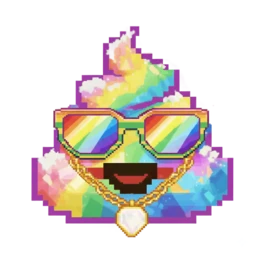
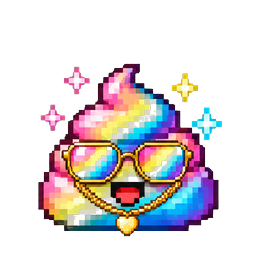
feat(assets): 똥 스프라이트 통일 + 판정 몸통 기준
- 똥 14종 새 그림 (builder poops/, 256x256, 전 종 몸통 상자 동일) — 같은 파일명·텍스처 키
- 충돌 판정: 캔버스 가운데 125 정사각 → 몸통 상자(POOP_BODY 38,62–218,230) 가운데에
  폭 hitbox(그대로 125)·높이 몸통 비율(≈117). 위로 나간 장식(모자·뿔·반짝이)은 판정 밖
  (PoolablePoopBase.fitBodyToPoop — 일반·금·다이아·무지개·토파즈 공통). 표시 크기는 그대로
- 안 쓰는 gold_poop3.webp 삭제

Claude-Session: https://claude.ai/code/session_01FbqhtZfvoqYCzNPgqVdggz

diff --git a/src/objects/PoolablePoopBase.ts b/src/objects/PoolablePoopBase.ts
@@ -1,5 +1,5 @@
 import Phaser from 'phaser';
-import { POOP_CONFIG } from '../config/poop';
+import { POOP_BODY, POOP_CONFIG } from '../config/poop';
 import { playFx } from '../utils/vfx';
 
 /**
@@ -11,6 +11,24 @@ import { playFx } from '../utils/vfx';
  * - recycle(): 화면 안에서 사라지면 = 파괴 → 타격 이펙트를 재생한다
  */
 export default class PoolablePoopBase extends Phaser.Physics.Arcade.Sprite {
+  /**
+   * 충돌 판정을 **몸통 기준**으로 — 폭 hitboxW(텍스처 px), 높이는 몸통 상자 비율, 자리는 몸통 가운데.
+   * 캔버스 가운데가 아니라 몸통 가운데에 두므로 위로 나간 장식(모자·뿔·반짝이)은 판정에 안 들어간다.
+   * 크기·오프셋은 텍스처 px 이라 표시 크기(setDisplaySize)를 바꿔도 같은 비율로 따라간다
+   */
+  protected fitBodyToPoop(hitboxW: number): void {
+    const body = this.body as Phaser.Physics.Arcade.Body | null;
+    if (!body) return;
+    const bw = POOP_BODY.right - POOP_BODY.left;
+    const bh = POOP_BODY.bottom - POOP_BODY.top;
+    const w = hitboxW;
+    const h = (bh * hitboxW) / bw;
+    const cx = (POOP_BODY.left + POOP_BODY.right) / 2;
+    const cy = (POOP_BODY.top + POOP_BODY.bottom) / 2;
+    body.setSize(w, h, false);
+    body.setOffset(cx - w / 2, cy - h / 2);
+  }
+
   reinit(x: number, y: number) {
     this.setActive(true).setVisible(true);
     const body = this.body as Phaser.Physics.Arcade.Body;

diff --git a/src/config/poop.ts b/src/config/poop.ts
@@ -26,7 +26,8 @@ export interface PoopConfig {
       /** EXTREME 난이도 크기 */
       extreme: number;
     };
-    /** 히트박스 크기 */
+    /** 히트박스 **폭** (텍스처 px) — 몸통 상자 비율로 높이를 정하고 몸통 가운데에 둔다 (PoolablePoopBase.fitBodyToPoop).
+     *  몸통 폭(180)과 같게 하면 몸통 전체가 판정이다 */
     hitbox: {
       /** 기본 히트박스 */
       normal: number;
@@ -99,6 +100,13 @@ export interface PoopConfig {
  * // 다이아똥: 40x40px, 히트박스 450x450, 일반보다 10 느림
  * // 토파즈똥: 40x40px, 히트박스 450x450, 일반보다 20 빠름 (speedReduction: -20)
  */
+/**
+ * 똥 그림의 **몸통 상자** — 텍스처(256x256 캔버스) 픽셀. 14종 전부 같다 (builder poops/body.json).
+ * 장식(안경·모자·뿔·수염·리본·반짝이)은 이 상자 밖으로 나간다 — 충돌 판정은 이 상자만 기준으로 한다.
+ * 그림을 바꾸면 body.json 의 body 값을 여기에 옮긴다
+ */
+export const POOP_BODY = { left: 38, top: 62, right: 218, bottom: 230 } as const;
+
 export const POOP_CONFIG: PoopConfig = {
   normal: {
     baseSpeed: 200,

diff --git a/src/objects/Poop.ts b/src/objects/Poop.ts
@@ -34,7 +34,7 @@ export default class Poop extends PoolablePoopBase {
 
     const body = this.body as Phaser.Physics.Arcade.Body;
     if (body) {
-      body.setSize(initHitbox, initHitbox);
+      this.fitBodyToPoop(initHitbox);
       this._hitboxSize = initHitbox;
       body.setCollideWorldBounds(false);
     }
@@ -71,7 +71,7 @@ export default class Poop extends PoolablePoopBase {
     if (body) {
       body.reset(x, y); // position + velocity 초기화 (내부에서 setPosition 호출)
       if (hitboxSize !== this._hitboxSize) {
-        body.setSize(hitboxSize, hitboxSize);
+        this.fitBodyToPoop(hitboxSize);
         this._hitboxSize = hitboxSize;
       }
       body.setEnable(true);

diff --git a/src/objects/DiamondPoop.ts b/src/objects/DiamondPoop.ts
@@ -15,7 +15,7 @@ export default class DiamondPoop extends PoolablePoopBase {
 
     const body = this.body as Phaser.Physics.Arcade.Body;
     if (body) {
-      body.setSize(POOP_CONFIG.diamond.hitbox, POOP_CONFIG.diamond.hitbox);
+      this.fitBodyToPoop(POOP_CONFIG.diamond.hitbox);
       body.setCollideWorldBounds(false);
     }
 

diff --git a/src/objects/RainbowPoop.ts b/src/objects/RainbowPoop.ts
@@ -15,7 +15,7 @@ export default class RainbowPoop extends PoolablePoopBase {
 
     const body = this.body as Phaser.Physics.Arcade.Body;
     if (body) {
-      body.setSize(POOP_CONFIG.rainbow.hitbox, POOP_CONFIG.rainbow.hitbox);
+      this.fitBodyToPoop(POOP_CONFIG.rainbow.hitbox);
       body.setCollideWorldBounds(false);
     }
 

diff --git a/src/objects/TopazPoop.ts b/src/objects/TopazPoop.ts
@@ -15,7 +15,7 @@ export default class TopazPoop extends PoolablePoopBase {
 
     const body = this.body as Phaser.Physics.Arcade.Body;
     if (body) {
-      body.setSize(POOP_CONFIG.topaz.hitbox, POOP_CONFIG.topaz.hitbox);
+      this.fitBodyToPoop(POOP_CONFIG.topaz.hitbox);
       body.setCollideWorldBounds(false);
     }
 

diff --git a/src/objects/GoldPoop.ts b/src/objects/GoldPoop.ts
@@ -15,7 +15,7 @@ export default class GoldPoop extends PoolablePoopBase {
 
     const body = this.body as Phaser.Physics.Arcade.Body;
     if (body) {
-      body.setSize(POOP_CONFIG.gold.hitbox, POOP_CONFIG.gold.hitbox);
+      this.fitBodyToPoop(POOP_CONFIG.gold.hitbox);
       body.setCollideWorldBounds(false);
     }
 
